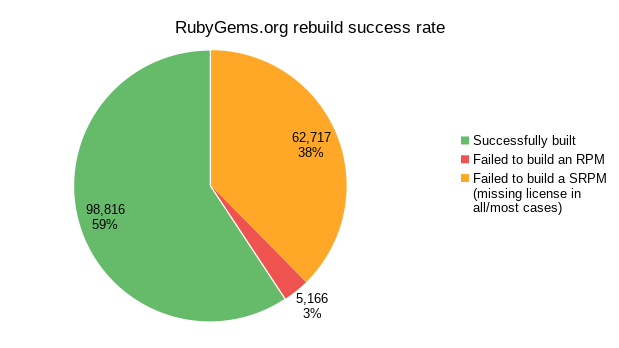
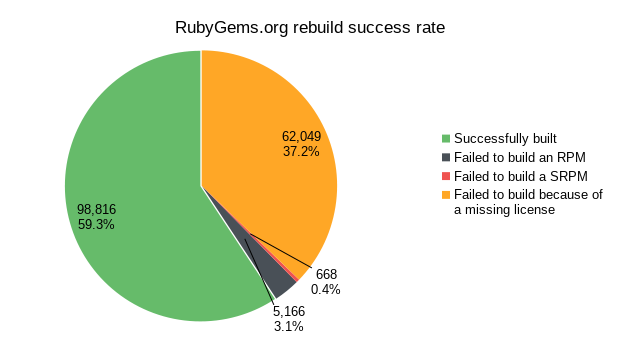
Add the number of failures because of missing license

diff --git a/_posts/2021-11-09-rebuilding-the-entire-rubygems-in-copr.md b/_posts/2021-11-09-rebuilding-the-entire-rubygems-in-copr.md
@@ -3,6 +3,7 @@ layout: post
 title: Rebuilding the entire RubyGems in Copr
 lang: en
 tags: copr fedora rubygems
+updated: 2021-11-15
 ---
 
 We took all 166&nbsp;699 packages from [RubyGems.org][rubygems] and
@@ -32,10 +33,8 @@ By far, the majority of failures were caused by a missing license
 field for the particular Gems. There is likely nothing wrong with
 them, and technically, they could be built without any issues, but we
 simply don't have legal rights to do so. Therefore such builds were
-aborted before even downloading the sources. I suspect that this is
-the sole reason for all 62&nbsp;717 SRPM build failures, but my script
-is still analyzing the results (the exact number of failures caused by
-a missing license will be updated once it is calculated).
+aborted before even downloading the sources. This affected 62&nbsp;049
+packages.
 
 
 ## More stats
@@ -159,7 +158,7 @@ recommended][rubygems-metadata].
 
 For the reference, here is a list of all 65&nbsp;206 unlicensed Gems
 generated by the following script (on Nov 14 2021).
-https://gist.github.com/FrostyX/e324c667c97ff80d7f145f5c2c936f27
+https://gist.github.com/FrostyX/e324c667c97ff80d7f145f5c2c936f27#file-rubygems-unlicensed-list
 
 ```bash
 #!/bin/bash
@@ -172,6 +171,12 @@ for gem in $(gem search --remote |cut -d " " -f1) ; do
    fi
 done
 ```
+
+There are also 3&nbsp;157 packages that don't have their license field set
+on [RubyGems.org][rubygems] but we were able to parse their license
+from the sources.
+https://gist.github.com/FrostyX/e324c667c97ff80d7f145f5c2c936f27#file-rubygems-license-only-in-sources-list
+
 
 ## Takeaway for DNF
 
